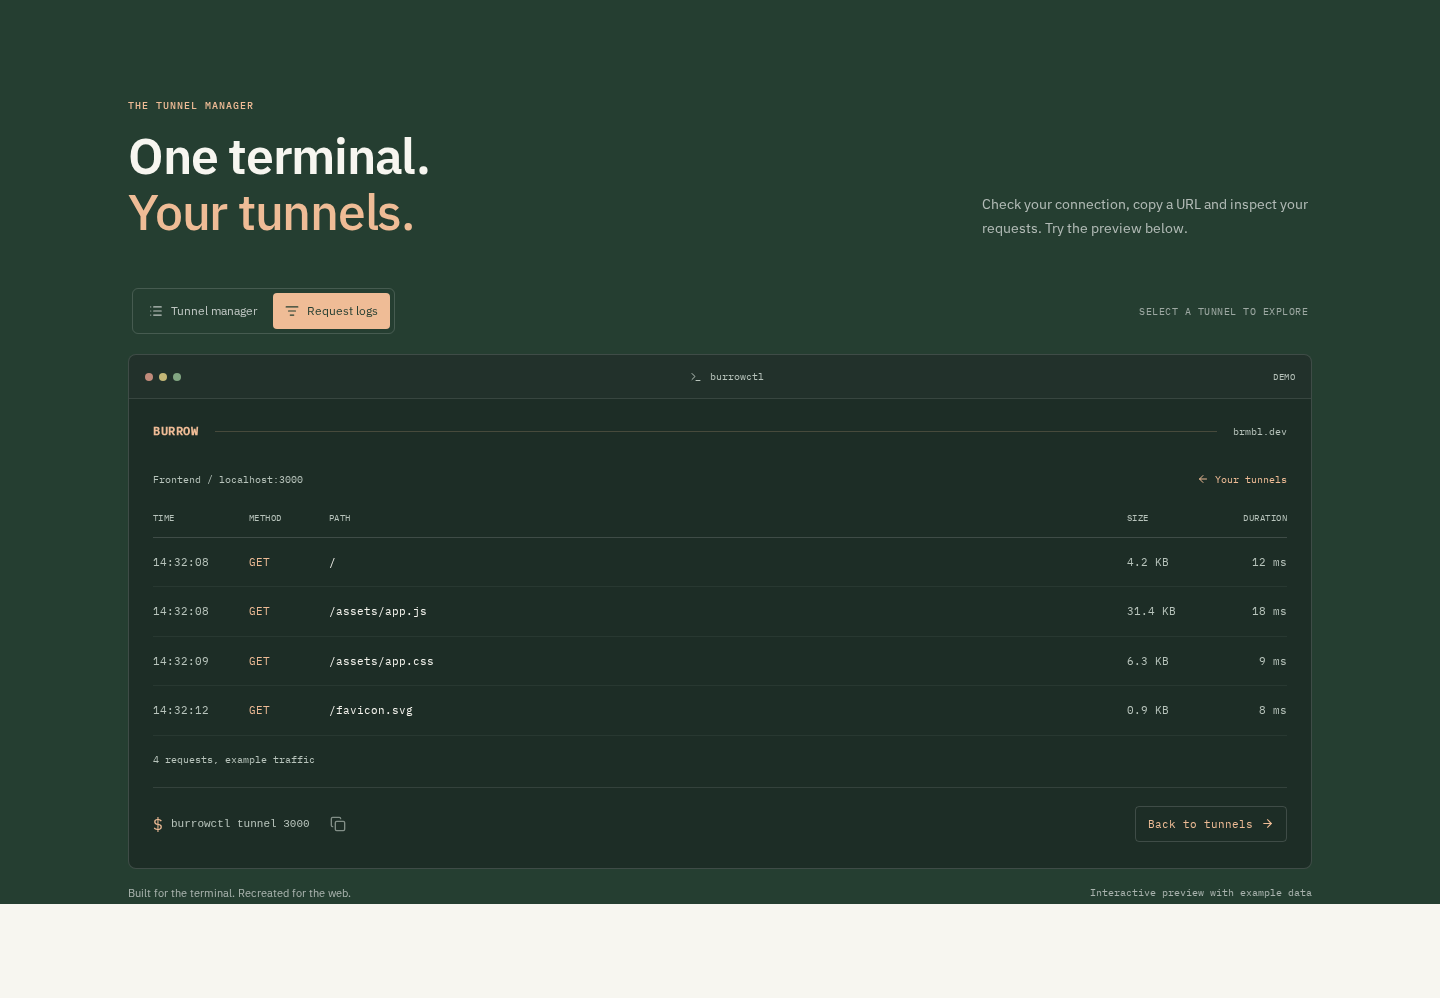
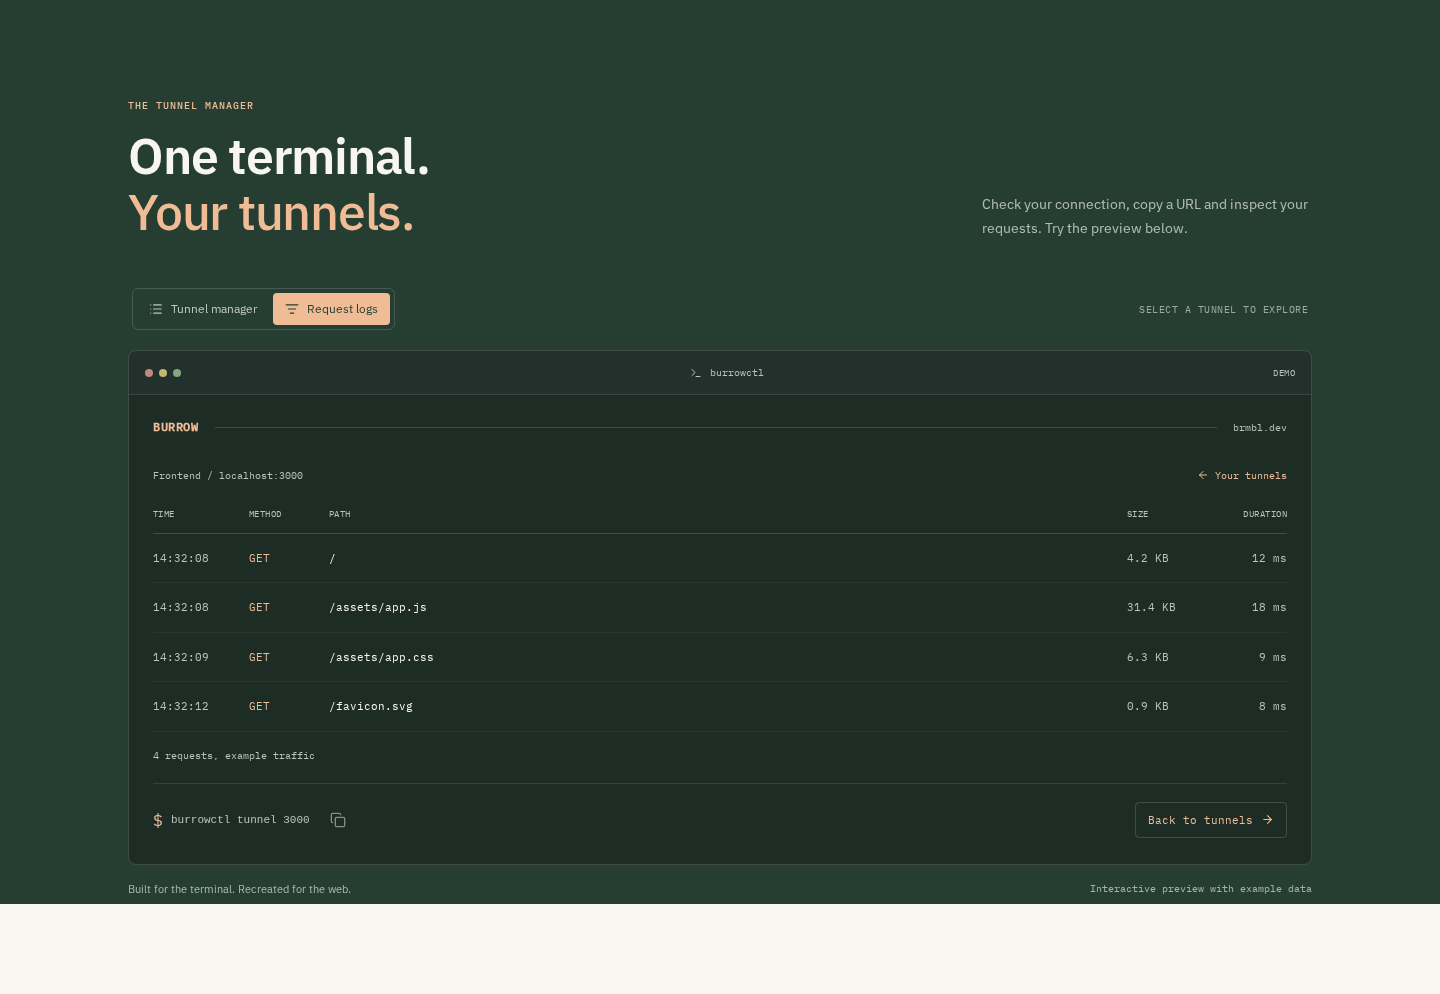
fix(website): slim controls and remove cookie action underlines

diff --git a/packages/website/src/app/cookie-consent.css b/packages/website/src/app/cookie-consent.css
@@ -34,8 +34,8 @@
   gap: 8px;
 }
 .cookie-notice-actions button {
-  min-height: 36px;
-  padding: 6px 10px;
+  min-height: 32px;
+  padding: 4px 10px;
   border: 1px solid var(--brand-line);
   border-radius: 5px;
   background: transparent;
@@ -69,8 +69,7 @@
   border-color: transparent;
   background: transparent;
   color: var(--brand-ink);
-  text-decoration: underline;
-  text-underline-offset: 3px;
+  text-decoration: none;
 }
 .cookie-notice-actions .cookie-notice-settings:is(:hover, :active) {
   background: var(--brand-line);
@@ -85,8 +84,7 @@
   color: inherit;
   font: inherit;
   cursor: pointer;
-  text-decoration: underline;
-  text-underline-offset: 3px;
+  text-decoration: none;
 }
 .cookie-notice button:focus-visible,
 .cookie-settings:focus-visible {
@@ -117,14 +115,14 @@
   --cc-btn-border-radius: 5px;
 }
 #cc-main .pm__btn {
-  min-height: 36px;
-  padding: 8px 12px;
+  min-height: 32px;
+  padding: 6px 12px;
   font-size: 12px;
 }
 @media (pointer: coarse) {
   .cookie-notice-actions button,
   #cc-main .pm__btn {
-    min-height: 40px;
+    min-height: 36px;
   }
 }
 #cc-main .pm {

diff --git a/packages/website/src/app/marketing-ui.css b/packages/website/src/app/marketing-ui.css
@@ -19,9 +19,9 @@
   display: inline-flex;
   align-items: center;
   justify-content: center;
-  min-height: 38px;
+  min-height: 34px;
   gap: 10px;
-  padding: 8px 14px;
+  padding: 6px 14px;
   border: 1px solid transparent;
   border-radius: 5px;
   box-shadow: none;
@@ -70,8 +70,8 @@
 }
 .marketing-site .site-header .button-primary,
 .site-header .navigation-cta {
-  min-height: 36px;
-  padding: 6px 12px;
+  min-height: 32px;
+  padding: 4px 12px;
   font-size: 12px;
 }
 .marketing-site :is(.nav-link, .text-link) {
@@ -128,7 +128,7 @@
 @media (pointer: coarse) {
   .marketing-site :is(.button, .button-primary, .button-secondary),
   .site-header .navigation-cta {
-    min-height: 40px;
+    min-height: 36px;
   }
 }
 @media (prefers-reduced-motion: no-preference) {

diff --git a/packages/website/src/app/brand-family.css b/packages/website/src/app/brand-family.css
@@ -82,6 +82,10 @@ em {
   border-radius: 8px;
   box-shadow: none;
 }
+.marketing-site .manager-tabs button {
+  min-height: 32px;
+  padding-block: 4px;
+}
 .marketing-site .manager-tabs button:hover {
   background: #ffffff14;
 }
@@ -95,8 +99,8 @@ em {
   justify-content: center;
   gap: 6px;
   margin: 8px auto 0;
-  min-height: 36px;
-  padding: 6px 10px;
+  min-height: 32px;
+  padding: 4px 10px;
   border: 1px solid var(--brand-line);
   border-radius: 5px;
   background: transparent;

diff --git a/documentation/design/screenshots/website-minimal-refresh/README.md b/documentation/design/screenshots/website-minimal-refresh/README.md
@@ -21,6 +21,10 @@ regression test reproduced 1:1 hover contrast on the previous build and checks
 normal, hover, press and keyboard focus. Additional tests cover replay under
 reduced motion and selected-tunnel request navigation.
 
+Screenshot follow-up: primary actions are 34px high on desktop; header, manager
+tabs, replay and consent controls are 32px. Cookie settings actions have no
+underline in any state.
+
 Verification includes website lint/types/build, 23 browser cases and all three
 Go modules. Responsive review covers WCAG A/AA axe, overflow and console errors
 at 320/390/768/1440px. Existing original diagrams and sample requests retain
